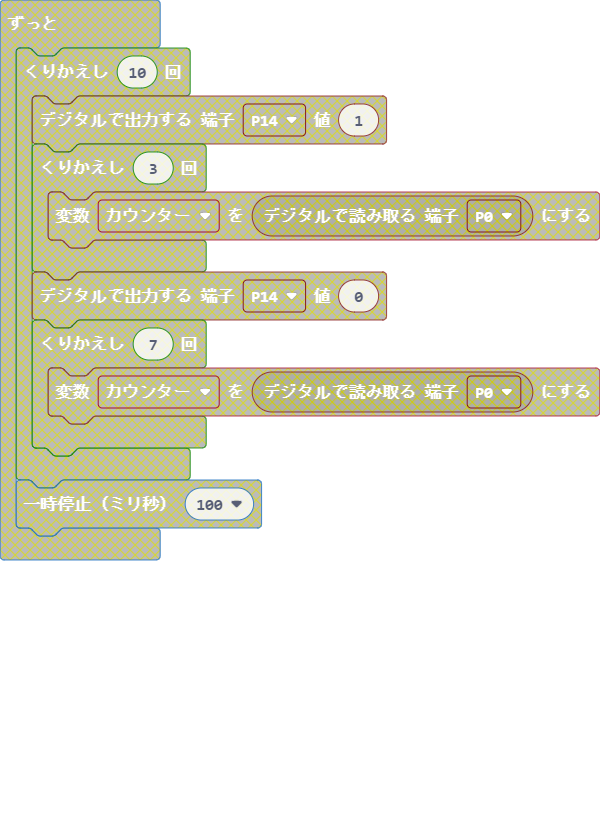
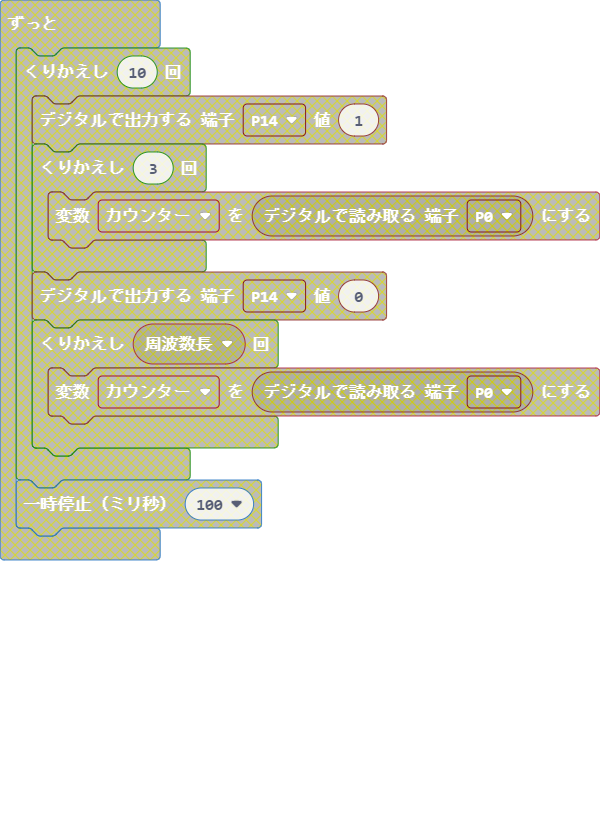
更新 main.blocks, main.ts

Changed region(s): [[0.21, 0.3745, 0.48, 0.4682], [0.33, 0.4994, 0.48, 0.5618]]

diff --git a/main.ts b/main.ts
@@ -1,5 +1,25 @@
 input.onButtonPressed(Button.B, function () {
-	
+    for (let index = 0; index < ヘッダー1長; index++) {
+        pins.digitalWritePin(DigitalPin.P14, 1)
+        for (let index = 0; index < 3; index++) {
+            カウンター = pins.digitalReadPin(DigitalPin.P0)
+        }
+        pins.digitalWritePin(DigitalPin.P14, 0)
+        for (let index = 0; index < 周波数長; index++) {
+            カウンター = pins.digitalReadPin(DigitalPin.P0)
+        }
+    }
+    for (let index = 0; index < ヘッダー2長; index++) {
+        pins.digitalWritePin(DigitalPin.P14, 0)
+        for (let index = 0; index < 3; index++) {
+            カウンター = pins.digitalReadPin(DigitalPin.P0)
+        }
+        pins.digitalWritePin(DigitalPin.P14, 0)
+        for (let index = 0; index < 周波数長; index++) {
+            カウンター = pins.digitalReadPin(DigitalPin.P0)
+        }
+    }
+    basic.pause(100)
 })
 /**
  * IR送信テスト
@@ -11,6 +31,9 @@ input.onButtonPressed(Button.B, function () {
  * ループ回数12＝28us、36KHz
  */
 let カウンター = 0
+let ヘッダー2長 = 0
+let ヘッダー1長 = 0
+let 周波数長 = 0
 basic.showIcon(IconNames.Square)
 let 値 = 0
 pins.digitalWritePin(DigitalPin.P14, 0)
@@ -22,21 +45,8 @@ let IRデータ = [
 "8",
 "0"
 ]
-let 周波数長 = 6
-let ヘッダー1長 = 0
-let ヘッダー2長 = 0
-let _1T = 0
-let _3T = 0
-basic.forever(function () {
-    for (let index = 0; index < 10; index++) {
-        pins.digitalWritePin(DigitalPin.P14, 1)
-        for (let index = 0; index < 3; index++) {
-            カウンター = pins.digitalReadPin(DigitalPin.P0)
-        }
-        pins.digitalWritePin(DigitalPin.P14, 0)
-        for (let index = 0; index < 周波数長; index++) {
-            カウンター = pins.digitalReadPin(DigitalPin.P0)
-        }
-    }
-    basic.pause(100)
-})
+周波数長 = 6
+ヘッダー1長 = 96
+ヘッダー2長 = 24
+let _1T = 24
+let _3T = 72
